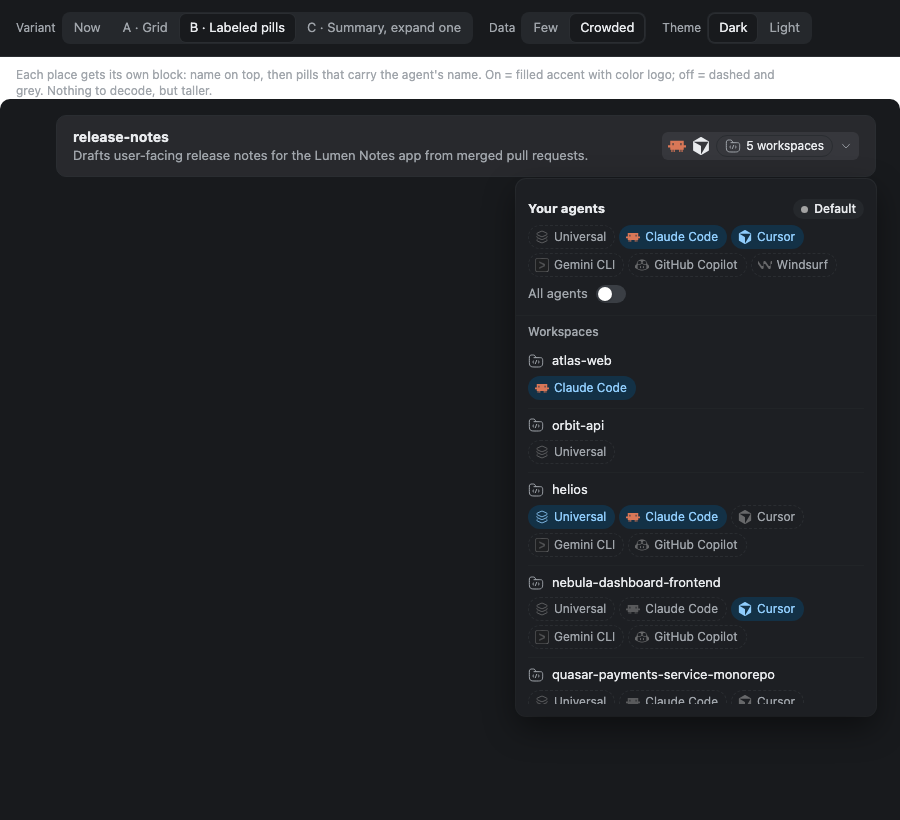
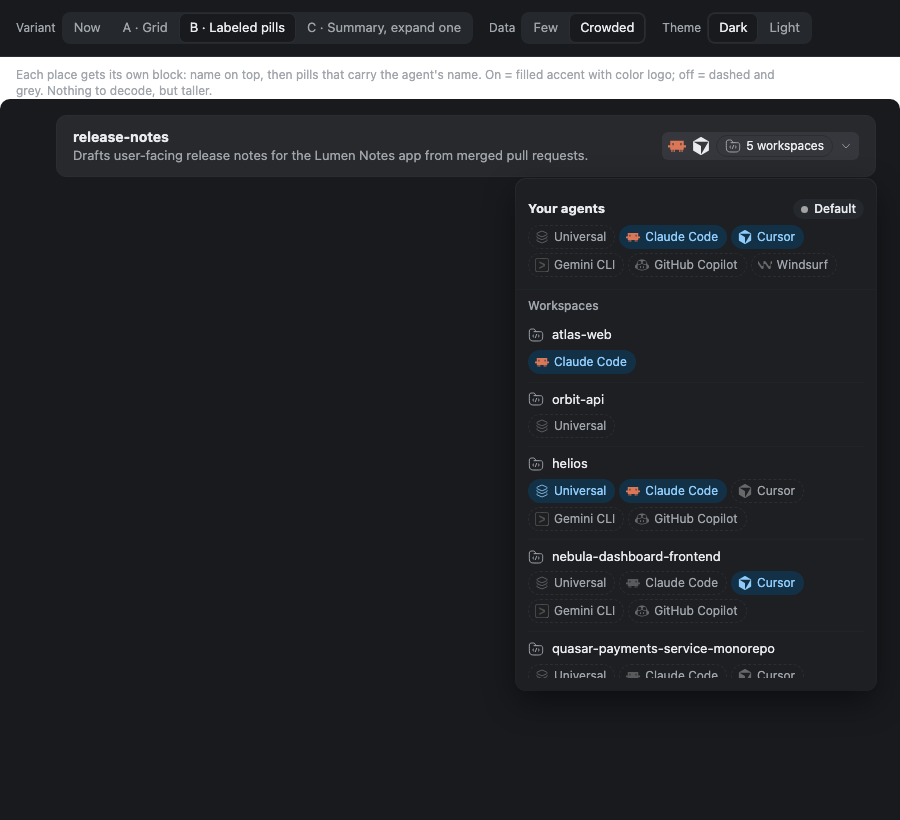
feat: the placement popover drops the All agents switch
Your agents' pills alone choose which agents the active preset holds a
skill for. A skill held for All agents shows every pill on, and turning
one off keeps the others as a fixed list; a Library row's "Active in
<preset>" menu item still holds a skill for all agents. The switch, its
spring and track constants, and SkillPlaces::switched go with it.

Changed region(s): [[0.5911, 0.3354, 0.9022, 0.8841]]

diff --git a/docs/design/place-popover/prototypes/popover.html b/docs/design/place-popover/prototypes/popover.html
@@ -283,7 +283,7 @@ function labeledB() {
   const tag = (on, k, click) => `<button class="tag ${on ? "on" : ""}" onclick="${click}">${logo(k)}${DIRS[k].name}</button>`;
   let h = `<div class="blk"><div class="top"><b style="flex:1">Your agents</b><span class="preset"><i></i>Default</span></div>
     <div class="tags">${yoursDirs().map(k => tag(M.on.has(k), k, `toggleYours('${k}')`)).join("")}</div>
-    <div style="margin-top:8px" class="muted">${allSwitch()}</div></div>`;
+    </div>`;
   h += `<div class="hr" style="margin-top:4px;margin-bottom:4px"></div><div class="sh">Workspaces</div><div class="scroll" style="max-height:360px">`;
   M.ws.forEach((w, i) => {
     h += `<div class="blk ${w.missing ? "missing" : ""}"><div class="top">${folder}<span class="trunc" style="flex:1">${w.name}</span>

diff --git a/docs/design/place-popover/source/popover.html.parts/3.html b/docs/design/place-popover/source/popover.html.parts/3.html
@@ -141,7 +141,7 @@ function labeledB() {
   const tag = (on, k, click) => `<button class="tag ${on ? "on" : ""}" onclick="${click}">${logo(k)}${DIRS[k].name}</button>`;
   let h = `<div class="blk"><div class="top"><b style="flex:1">Your agents</b><span class="preset"><i></i>Default</span></div>
     <div class="tags">${yoursDirs().map(k => tag(M.on.has(k), k, `toggleYours('${k}')`)).join("")}</div>
-    <div style="margin-top:8px" class="muted">${allSwitch()}</div></div>`;
+    </div>`;
   h += `<div class="hr" style="margin-top:4px;margin-bottom:4px"></div><div class="sh">Workspaces</div><div class="scroll" style="max-height:360px">`;
   M.ws.forEach((w, i) => {
     h += `<div class="blk ${w.missing ? "missing" : ""}"><div class="top">${folder}<span class="trunc" style="flex:1">${w.name}</span>

diff --git a/crates/ui/src/native_view/place_popover/sections.rs b/crates/ui/src/native_view/place_popover/sections.rs
@@ -1,11 +1,11 @@
-//! The popover's content: "Your agents", with the preset chip, a labeled pill per skill
-//! directory of your agents, and the All agents switch, then a block per workspace: its name, a
-//! note while its folder is missing or it uses no agent, and its pills, in a list that scrolls once it is tall. The switch is
-//! Kit's base switch and the pills the design system's toggle chips, on the popover's own focus
-//! handles. A control saves through the view showing the popover on a click, or on Enter or Space
-//! while it has focus, and does nothing, with no hover or hand cursor, while that view is
-//! blocked: a change runs or the progress strip is up. A missing workspace's pills are disabled:
-//! they never do anything and take no focus.
+//! The popover's content: "Your agents", with the preset chip and a labeled pill per skill
+//! directory of your agents, then a block per workspace: its name, a note while its folder is
+//! missing or it uses no agent, and its pills, in a list that scrolls once it is tall. The pills
+//! are the design system's toggle chips on the popover's own focus handles. A pill saves through
+//! the view showing the popover on a click, or on Enter or Space while it has focus, and does
+//! nothing, with no hover or hand cursor, while that view is blocked: a change runs or the
+//! progress strip is up. A missing workspace's pills are disabled: they never do anything and
+//! take no focus.
 
 use super::super::controls::reader_logo;
 use super::super::library_copies::Reader;
@@ -13,19 +13,16 @@ use super::super::library_places::preset_chip;
 use super::super::snapshot_query::{Entry, Held, SkillPlaces, WorkspacePlace};
 use super::super::workspace_icons::sized_icon;
 use super::{PlacePopover, place_block, place_head};
-use gpui_kit::base::{Switch, SwitchThumb, SwitchTrack, spring};
 use gpui_kit::component::{ActiveTheme, h_flex, v_flex};
 use gpui_kit::{
     AnyElement, App, ClickEvent, Context, FocusHandle, InteractiveElement, IntoElement,
-    ParentElement, Pixels, StatefulInteractiveElement, Styled, Window, div, prelude::FluentBuilder,
-    px, transparent_black,
+    ParentElement, StatefulInteractiveElement, Styled, Window, div, prelude::FluentBuilder, px,
 };
 use skillbinder_design::library::POPOVER_LIST_MAX_HEIGHT;
 use skillbinder_design::tokens::color::HAIRLINE;
-use skillbinder_design::tokens::{opacity, radius, space, text};
+use skillbinder_design::tokens::{opacity, space, text};
 use skillbinder_design::{
-    IconSize, Level, ScrollArea, SectionHeader, Surface, Text, TextTone, ToggleChip, focus_ring,
-    tooltip,
+    IconSize, ScrollArea, SectionHeader, Text, TextTone, ToggleChip, focus_ring, tooltip,
 };
 use skillbinder_proto::{Preset, SkillId, Targets, WorkspaceId, WorkspaceTargets};
 
@@ -43,13 +40,6 @@ pub(super) trait Placer: Sized + 'static {
     );
 }
 
-/// The All agents switch's track and thumb, and how far the thumb travels between off and on:
-/// GPUI Kit's own small switch, which this one draws with a raised thumb. The thumb travels the
-/// track less its 1 px border and 1 px padding on each side.
-const TRACK: (f32, f32) = (30., 18.);
-const THUMB: f32 = 14.;
-const TRAVEL: f32 = TRACK.0 - THUMB - 4.;
-
 /// What the popover's content shows.
 pub(super) struct Sections<'a> {
     pub popover: &'a PlacePopover,
@@ -63,32 +53,19 @@ pub(super) struct Sections<'a> {
 impl Sections<'_> {
     /// Your agents, then the workspaces under a hairline while any exists.
     pub(super) fn render<V: Placer>(&self, window: &mut Window, cx: &mut Context<V>) -> AnyElement {
-        // The All agents switch's thumb slides on Kit's spring, as Kit's own switch does. Each
-        // skill's thumb keeps its own, so a popover opened straight from another one's does not
-        // slide from where that one's thumb was.
-        let travel = if self.places.all_agents() {
-            px(TRAVEL)
-        } else {
-            px(0.)
-        };
-        let spring_move = cx.theme().motion_tokens().spring_move;
-        let key = ("place-all-agents-thumb", self.places.skill.0.clone());
-        let thumb = spring(key, travel, spring_move, window, cx);
         text::BODY_SM
             .apply(v_flex())
             .gap(px(space::MD))
-            .child(self.agents(thumb, window, cx))
+            .child(self.agents(window, cx))
             .when(!self.places.workspaces.is_empty(), |content| {
                 content.child(self.workspaces(window, cx))
             })
             .into_any_element()
     }
 
-    /// The preset chip, a pill per skill directory of your agents, and the All agents switch
-    /// with its thumb at `thumb`.
-    fn agents<V: Placer>(&self, thumb: Pixels, window: &Window, cx: &Context<V>) -> AnyElement {
+    /// The preset chip and a pill per skill directory of your agents.
+    fn agents<V: Placer>(&self, window: &Window, cx: &Context<V>) -> AnyElement {
         let places = self.places;
-        // Tab reaches the controls in the order their focus is asked for: the pills first.
         let pills: Vec<AnyElement> = places
             .agents
             .iter()
@@ -103,22 +80,6 @@ impl Sections<'_> {
                 pressable(pill, &focus, save, window, cx)
             })
             .collect();
-        let all = places.all_agents();
-        let focus = self.popover.key("place-all-agents", cx);
-        let save = self.save_agents(places.switched(!all));
-        let toggle = all_agents_switch(all, thumb, &focus, window, cx)
-            .when_some(save, |toggle, save| {
-                toggle.cursor_pointer().on_change(on_change(save, cx))
-            });
-        let switch = div()
-            .id("place-all-row")
-            .flex()
-            .items_center()
-            .gap(px(space::MD))
-            // The switch's accessible name reads the label.
-            .child("All agents")
-            .child(toggle)
-            .tooltip(tooltip("Includes agents added later"));
         let pills = if pills.is_empty() {
             vec![
                 Text::labeled("no-agents", "You have no agents")
@@ -132,11 +93,7 @@ impl Sections<'_> {
         let head = SectionHeader::new("agents-label", "Your agents")
             .min_h(px(space::CONTROL_SM))
             .action(preset_chip("place-preset", self.preset, cx));
-        v_flex()
-            .gap(px(space::SM))
-            .child(place_block(head, pills))
-            .child(switch)
-            .into_any_element()
+        place_block(head, pills).into_any_element()
     }
 
     /// Saving `targets` for your agents, unless the view is blocked.
@@ -325,47 +282,4 @@ fn on_change<V: Placer>(
 ) -> impl Fn(bool, &ClickEvent, &mut Window, &mut App) + 'static {
     let press = cx.listener(move |view, _: &ClickEvent, window, cx| press(view, window, cx));
     move |_, event, window, cx| press(event, window, cx)
-}
-
-/// The All agents switch: Kit's base switch on the popover's `focus` for it, which keeps that focus
-/// while it does nothing. Its 30 by 18 track takes the switch color, primary while `on`, and Kit's
-/// focus ring while a key gave it focus; its raised 14 px thumb sits `thumb` from the start.
-fn all_agents_switch(
-    on: bool,
-    thumb: Pixels,
-    focus: &FocusHandle,
-    window: &Window,
-    cx: &App,
-) -> Switch {
-    let theme = cx.theme();
-    let primary = theme.primary;
-    let track = SwitchTrack::new("place-all-agents-track")
-        .checked(on)
-        .flex()
-        .flex_none()
-        .items_center()
-        .w(px(TRACK.0))
-        .h(px(TRACK.1))
-        .rounded_full()
-        // A transparent 1 px border and 1 px of padding inset the thumb, so the ring's tint of the
-        // border shows on the off track too, as on Kit's own switch.
-        .border_1()
-        .border_color(transparent_black())
-        .p_px()
-        .bg(theme.switch)
-        .styles(|styles| styles.checked(|style| style.bg(primary)))
-        .child(
-            Surface::new(Level::Raised)
-                .radius(radius::FULL)
-                .fill(theme.switch_thumb)
-                .apply(SwitchThumb::new(on), theme)
-                .size(px(THUMB))
-                .left(thumb),
-        );
-    Switch::new("place-all-agents")
-        .checked(on)
-        .accessibility_label("All agents")
-        .track_focus(focus)
-        .flex_none()
-        .child(focus_ring(track, focus, window, cx))
 }

diff --git a/crates/ui/src/native_view/place_popover/tests.rs b/crates/ui/src/native_view/place_popover/tests.rs
@@ -16,12 +16,11 @@ use skillbinder_design::FOCUS_RING;
 use skillbinder_proto::{AppSnapshot, SkillId, Targets, WorkspaceId, WorkspaceTargets};
 use std::sync::Arc;
 
-/// The controls Tab reaches, in the order they are drawn: your agents' pills, the switch, then
-/// the pill of the workspace whose folder is there. The missing workspace's pill is not one.
-const CONTROLS: [&str; 4] = [
+/// The controls Tab reaches, in the order they are drawn: your agents' pills, then the pill of
+/// the workspace whose folder is there. The missing workspace's pill is not one.
+const CONTROLS: [&str; 3] = [
     "place-agent-claude",
     "place-agent-cursor",
-    "place-all-agents",
     "place-ws-web-.claude/skills",
 ];
 
@@ -281,7 +280,7 @@ impl Harness {
 }
 
 #[gpui_kit::test]
-fn tab_and_shift_tab_cycle_every_enabled_pill_and_the_switch(cx: &mut TestAppContext) {
+fn tab_and_shift_tab_cycle_every_enabled_pill(cx: &mut TestAppContext) {
     let harness = Harness::new(cx, false);
     harness.click(cx, "trigger");
     assert_eq!(harness.focused(cx), None, "the popover itself has focus");
@@ -292,9 +291,9 @@ fn tab_and_shift_tab_cycle_every_enabled_pill_and_the_switch(cx: &mut TestAppCon
         assert_eq!(harness.ringed(cx), Some(control));
     }
     harness.press(cx, &["shift-tab"]);
-    assert_eq!(harness.focused(cx), Some(CONTROLS[3]));
-    harness.press(cx, &["shift-tab"]);
     assert_eq!(harness.focused(cx), Some(CONTROLS[2]));
+    harness.press(cx, &["shift-tab"]);
+    assert_eq!(harness.focused(cx), Some(CONTROLS[1]));
 }
 
 #[gpui_kit::test]
@@ -324,7 +323,6 @@ fn enter_and_space_save_what_a_click_saves(cx: &mut TestAppContext) {
         [
             "agents Agents({})",
             r#"agents Agents({"claude", "cursor"})"#,
-            "agents AllAgents",
             r#"web Some(Dirs({".claude/skills"}))"#,
         ]
     );

diff --git a/crates/ui/src/native_view/place_popover.rs b/crates/ui/src/native_view/place_popover.rs
@@ -1,12 +1,11 @@
 //! The popover that changes where a library skill is on, from its Library row or tile or its
 //! page's header, whose surface a workspace page's agents menu shares. "Your agents" edits the
-//! active preset: a labeled pill per skill directory of your agents and an All agents switch.
-//! Each workspace's block edits that workspace, one pill per directory it uses, or, while it uses
-//! none, per directory your agents offer, under its name. Each change saves at once; the last
-//! pill off removes the skill from that place without asking. It stays open across changes and
-//! closes on a press outside, Escape, a scroll of the list, or leaving the page. The keyboard
-//! reaches every control, as [`focus`] describes. It is Kit's popover surface, placed by Kit's
-//! positioner from where its
+//! active preset: a labeled pill per skill directory of your agents. Each workspace's block edits
+//! that workspace, one pill per directory it uses, or, while it uses none, per directory your
+//! agents offer, under its name. Each change saves at once; the last pill off removes the skill
+//! from that place without asking. It stays open across changes and closes on a press outside,
+//! Escape, a scroll of the list, or leaving the page. The keyboard reaches every pill, as
+//! [`focus`] describes. It is Kit's popover surface, placed by Kit's positioner from where its
 //! trigger was last painted.
 
 mod focus;

diff --git a/crates/ui/src/native_view/snapshot_query.rs b/crates/ui/src/native_view/snapshot_query.rs
@@ -93,7 +93,8 @@ pub(crate) struct WorkspaceEntries<'a> {
 pub(crate) struct Places<'a> {
     pub agents: Vec<Entry>,
     pub workspaces: Vec<WorkspaceEntries<'a>>,
-    /// Every listed agent's id: the agents a fixed list keeps when All agents is switched off.
+    /// Every listed agent's id: the agents a fixed list keeps when a pill turns off from All
+    /// agents.
     every: Vec<String>,
 }
 
@@ -259,16 +260,6 @@ impl<'a> SkillPlaces<'a> {
     /// On right now: held for one of your agents, or by a workspace.
     pub(crate) fn is_active(&self) -> bool {
         self.agents.iter().any(|held| held.held) || self.workspaces.iter().any(|w| w.holds())
-    }
-
-    /// The active preset's targets after the All agents switch: all agents, or exactly the
-    /// agents listed now.
-    pub(super) fn switched(&self, on: bool) -> Targets {
-        if on {
-            Targets::AllAgents
-        } else {
-            Targets::Agents(self.every.iter().cloned().collect())
-        }
     }
 
     /// The active preset's targets after toggling `entry`. An empty list removes the skill from

diff --git a/crates/ui/src/native_view/snapshot_query/tests.rs b/crates/ui/src/native_view/snapshot_query/tests.rs
@@ -464,15 +464,10 @@ fn directories_resolving_to_one_folder_share_a_pill() {
 }
 
 #[test]
-fn the_switch_gives_all_agents_or_the_fixed_list_listed_now() {
+fn a_pill_off_from_all_agents_keeps_the_others_as_a_fixed_list() {
     let snapshot = library().build();
     let places = Places::new(&snapshot);
     let everywhere = places.of(skill(&snapshot, "e-all"), &preset_id("default"));
-    assert_eq!(
-        everywhere.switched(false),
-        Targets::Agents(set(&["amp", "claude-code", "codex", "cursor"]))
-    );
-    assert_eq!(everywhere.switched(true), Targets::AllAgents);
     let universal = everywhere.agents[0].entry;
     assert_eq!(
         everywhere.toggled(universal),

diff --git a/docs/features/native/library-rows.md b/docs/features/native/library-rows.md
@@ -37,14 +37,14 @@ An inactive skill's slug, tag, and description draw at half opacity; its glyphs 
 
 The popover is an overlay surface, the menu's: the popover fill, a hairline ring in the foreground color at 10%, a soft drop shadow, and 12-point corners, 360 points wide with 8 points of padding, the menus' padding. Its content follows the labeled-pills variant of [`docs/design/place-popover`](../../design/place-popover/README.md). Kit's positioner opens it 4 points below the area, lined up with its trailing edge in a list and its leading edge in a grid; when there is no room below it opens above the area, or above the whole tile in a grid, and it stays 8 points inside the window, overlapping the area only when it fits neither below nor above. It follows the area as the area was painted the frame before, so it shows from the frame after it opens, holding its focus unseen until then, and follows a moved area a frame late. Its accessible role is a dialog named "Where <slug> is on".
 
-- **Your agents.** The label "Your agents" and, at its trailing end, the preset chip: a dot in the active preset's color, muted without one, and its name, with the tooltip "Saved to <preset>". Then a pill per skill directory of your agents in Agents section order, wrapping onto further lines from the leading edge, and under them "All agents" with a 30 by 18 switch, Kit's base switch whose shadowed thumb slides on Kit's spring, tooltip "Includes agents added later". Agents that read one directory, such as Universal or an agent whose global directory links to another's, are one pill, whose tooltip lists the agents that read it. With none of your agents, the pills give way to "You have no agents".
+- **Your agents.** The label "Your agents" and, at its trailing end, the preset chip: a dot in the active preset's color, muted without one, and its name, with the tooltip "Saved to <preset>". Then a pill per skill directory of your agents in Agents section order, wrapping onto further lines from the leading edge. The popover has no All agents switch; a row's context menu holds a skill for all your agents (see [Library and organization](library-and-organization.md)). Agents that read one directory, such as Universal or an agent whose global directory links to another's, are one pill, whose tooltip lists the agents that read it. With none of your agents, the pills give way to "You have no agents".
 - **Workspaces**, under a hairline while any workspace exists: one block per workspace in sidebar order, divided by hairlines, in a list that scrolls under the scroll fades once it is 320 points tall. A block's head holds the workspace's glyph or image and name, which ends in `…` when it does not fit, and at its trailing edge, whole and muted, "No agents yet" while it uses no agent or "Folder missing"; otherwise its pills alone show where the skill is on. Under the head, its pills wrap from the leading edge, one per skill directory it uses, directories resolving to one folder sharing a pill; a workspace that uses no agent yet offers a pill for each of your agents' workspace skill directories. A workspace whose folder is missing draws its block at 40% opacity with the tooltip "The workspace folder is missing.", and its pills are disabled: they do nothing and show no hover.
 - Pills are the design system's toggle chips, 24 points high with round ends, holding the directory's logo and a label: the name of the agent whose logo it shows, then `+<N>` for the other agents that read the directory, such as "Claude Code +5" for a workspace's `.claude/skills`; Universal reads "Universal". Its accessible name names every agent, and its tooltip lists them while the label does not. Off: a dashed outline at 24% of the text color, the name muted, and the logo in grayscale at half opacity. On: the `accent-soft` fill, the name in its foreground, and the logo in its own colors. Hover adds the muted fill to an off pill.
-- The switch on holds the skill for All agents, which includes agents chosen later; off keeps exactly your agents now as a fixed list. A pill toggles its directory: from All agents, the others stay as a fixed list, and the last pill off removes the skill from the active preset without a dialog. A workspace pill toggles that directory for the workspace; the last one off removes the skill from the workspace. Choosing a pill of a workspace that uses no agent makes that directory its agent and turns the skill on there.
-- Each change saves at once and the popover stays open, showing it; while it is open its row stays listed even if it no longer matches the filters, which apply again once it closes. While another operation runs or the progress strip is up, the switch and the pills do nothing, and show no hover or hand cursor. An edited managed copy still asks through Skill copies once the operation ends, and the popover hides while that dialog is open.
+- A pill toggles its directory. A skill held for All agents, which includes agents chosen later, shows every pill on; turning one off keeps the others as a fixed list. Turning every pill on by hand keeps a fixed list too. The last pill off removes the skill from the active preset without a dialog. A workspace pill toggles that directory for the workspace; the last one off removes the skill from the workspace. Choosing a pill of a workspace that uses no agent makes that directory its agent and turns the skill on there.
+- Each change saves at once and the popover stays open, showing it; while it is open its row stays listed even if it no longer matches the filters, which apply again once it closes. While another operation runs or the progress strip is up, the pills do nothing, and show no hover or hand cursor. An edited managed copy still asks through Skill copies once the operation ends, and the popover hides while that dialog is open.
 - A press outside it, Escape, scrolling the list, or leaving the page closes it.
-- The keyboard reaches every control. Opening the popover focuses the popover itself, so no control shows a focus ring until Tab or Shift-Tab moves to one. They cycle through your agents' pills, the switch, and the workspaces' pills, except a missing workspace's, in the order they are drawn, wrapping at either end instead of leaving for the page. Enter or Space acts on the focused control as a click does, and does nothing while another operation runs or the progress strip is up. Only a control focused from the keyboard shows Kit's focus ring, around a pill or the switch's track: a 3-point band in the theme's ring color at half opacity around a border tinted in it. A click focuses a control without one. When the popover closes while it has focus and the last input was a key, as with Escape, focus goes back to the trigger, so the keyboard is on the trigger again. A close after pointer input, such as a press on the trigger or outside it, or a scroll, focuses the window as before; a press then focuses whatever it lands on, as any press does. Whenever the focused element leaves the window, as the popover does on leaving the page or when its skill leaves the library, the window takes focus, so its shortcuts keep working.
+- The keyboard reaches every control. Opening the popover focuses the popover itself, so no control shows a focus ring until Tab or Shift-Tab moves to one. They cycle through your agents' pills and the workspaces' pills, except a missing workspace's, in the order they are drawn, wrapping at either end instead of leaving for the page. Enter or Space acts on the focused control as a click does, and does nothing while another operation runs or the progress strip is up. Only a control focused from the keyboard shows Kit's focus ring around a pill: a 3-point band in the theme's ring color at half opacity around a border tinted in it. A click focuses a control without one. When the popover closes while it has focus and the last input was a key, as with Escape, focus goes back to the trigger, so the keyboard is on the trigger again. A close after pointer input, such as a press on the trigger or outside it, or a scroll, focuses the window as before; a press then focuses whatever it lands on, as any press does. Whenever the focused element leaves the window, as the popover does on leaving the page or when its skill leaves the library, the window takes focus, so its shortcuts keep working.
 
 ## Text runs
 
-The `+N` avatar, the popover's section labels and workspace names and notes, the segment counts, the Updates count, folder tags, and the workspace and preset chips' names and count are GPUI text with an id, so each is a label in the accessibility tree holding its text, and the `native-test` bridge reports its layout box and its text (`get_ui_tree`, `get_element_bounds`) under its id, or under the trailing ids of its path where the id is not unique in the window, such as `place-ws-<workspace>.name`. Text that an enclosing element's accessible name already reads is plain text, which is no label: a row's or tile's name, read by the row, All agents, read by its switch, and a pill's name, read by the pill. The segment labels, Clear filters and the other text buttons are Kit controls whose label is their accessible name. Assistive technology reads each text once. A line that may not fit, such as a skill's or a workspace's name, ends in `…`. Text takes a type level from the design system (`skillbinder_design::Text`), whose medium weight is 520, since GPUI draws a request for exactly 500 with the system font's Regular face.
+The `+N` avatar, the popover's section labels and workspace names and notes, the segment counts, the Updates count, folder tags, and the workspace and preset chips' names and count are GPUI text with an id, so each is a label in the accessibility tree holding its text, and the `native-test` bridge reports its layout box and its text (`get_ui_tree`, `get_element_bounds`) under its id, or under the trailing ids of its path where the id is not unique in the window, such as `place-ws-<workspace>.name`. Text that an enclosing element's accessible name already reads is plain text, which is no label: a row's or tile's name, read by the row, and a pill's name, read by the pill. The segment labels, Clear filters and the other text buttons are Kit controls whose label is their accessible name. Assistive technology reads each text once. A line that may not fit, such as a skill's or a workspace's name, ends in `…`. Text takes a type level from the design system (`skillbinder_design::Text`), whose medium weight is 520, since GPUI draws a request for exactly 500 with the system font's Regular face.

diff --git a/docs/native-gate/interaction-checklist.md b/docs/native-gate/interaction-checklist.md
@@ -8,7 +8,7 @@ Use disposable source directories, library data, and a local bare remote.
 3. Select a project directory through the native picker, register it, rename, reorder, and remove it, then verify direct agent skill discovery. Pick the home folder and confirm that only the projects in it are added, or that the pick is refused when it holds none.
 4. Scan, select candidates, acknowledge invalid metadata when applicable, review and apply an import. Navigate during work; retain the result until dismissed. Confirm original source bytes remain unchanged.
 5. Search Library, inspect a file, create, recolor, reorder, rename, clone, and delete a preset through its revision-checked preview, and confirm that the Default preset's only menu action is Clone, that it cannot be dragged or recolored, stays first, and keeps its name and glyph. Activate and deactivate skills in the active preset from a row's popover, a row's menu, and a skill page; confirm the All, Active, Inactive, and Updates filters narrow the list with the folder tab and search, their counts follow, Clear filters resets them, the choice survives a visit to Settings and not a relaunch, and a workspace's page has no filter row; confirm clicking a preset activates it without opening a page and that the active check follows it, that a switch slower than 300 ms shows the progress strip with a rising percentage while clicks, Escape, ⌘B, ⌘[ and ⌘] do nothing, that a switch between presets holding the same skills shows only the toast when no copy waits for the user, and that each switch ends with `Switched to <preset>`, and confirm a new empty preset shows the "No skills active in <name>" notice in Library. Rename a preset to a duplicate and confirm the row reverts to the stored name with an error toast. Create and clone presets and confirm their rows appear before the save completes; a refused creation removes the row with an error toast. Confirm that importing a different skill with a slug the library holds is refused.
-6. Start the native test build with `--home` set to a disposable fixture home holding `.claude/skills` and `.agents/skills`. Open an inactive skill's dashed `+`, confirm the popover names the active preset, turn All agents on, and confirm its copy appears in both directories, the row's stack shows Universal and Claude Code, and both agent pages list it; turn All agents off and confirm both copies stay, turn Claude Code's pill off and confirm only `~/.claude/skills/<slug>` goes, then turn the last pill off and confirm the copy disappears without a dialog, other skill folders stay, and the row dims. Turn a workspace's pill on and confirm the copy appears there and the row gains its chip; a workspace using no agent reads `No agents yet`, and a missing one's line does nothing. Confirm the popover stays open across changes, closes on Escape and a press outside, and that Enter on a row still opens the skill page. With Tab focus the trigger and press Enter: no control is outlined until Tab, Tab and Shift-Tab cycle the switch and pills with the outline, Space and Enter toggle them, and Escape returns focus to the trigger. Close it with a second click on `+`, press cmd-B twice, and confirm that row's `+` stays hidden. Reach Library from another page, open a popover, Tab to a pill, press cmd-[, and confirm cmd-] still returns to Library. Switch to a preset holding other skills and confirm the files swap, then open the delete confirmation for the active preset, confirm it states what Default adds and removes, delete it, confirm the strip takes over from the confirmation and ends with `Deleted <preset> · Switched to Default`, and confirm the files match Default. Edit a managed copy and switch away: the strip ends with `Done · 1 needs attention`, Review opens the review list with Remove and Keep, and Close leaves no dialog open. Put a different copy of a library skill's slug in the fixture, activate the skill, and confirm Skill copies opens with Replace and Skip while the copy stays untouched until answered. Edit a managed copy, deactivate its skill, and confirm Remove and Keep. Make a fixture directory read-only, activate a skill, and confirm the warning glyph, its tooltip, and the skill page's Review note, then make it writable and confirm Retry applies the copy. Quit during a long switch, with ⌘Q and by killing the process, and confirm that every copy in place is complete, that no `.skillbinder-` staging directory remains after relaunch, and that the next launch finishes the switch.
+6. Start the native test build with `--home` set to a disposable fixture home holding `.claude/skills` and `.agents/skills`. Open an inactive skill's dashed `+`, confirm the popover names the active preset, turn the Universal and Claude Code pills on, and confirm its copy appears in both directories, the row's stack shows Universal and Claude Code, and both agent pages list it; turn Claude Code's pill off and confirm only `~/.claude/skills/<slug>` goes, then turn the last pill off and confirm the copy disappears without a dialog, other skill folders stay, and the row dims. Turn a workspace's pill on and confirm the copy appears there and the row gains its chip; a workspace using no agent reads `No agents yet`, and a missing one's line does nothing. Confirm the popover stays open across changes, closes on Escape and a press outside, and that Enter on a row still opens the skill page. With Tab focus the trigger and press Enter: no control is outlined until Tab, Tab and Shift-Tab cycle the pills with the outline, Space and Enter toggle them, and Escape returns focus to the trigger. Close it with a second click on `+`, press cmd-B twice, and confirm that row's `+` stays hidden. Reach Library from another page, open a popover, Tab to a pill, press cmd-[, and confirm cmd-] still returns to Library. Switch to a preset holding other skills and confirm the files swap, then open the delete confirmation for the active preset, confirm it states what Default adds and removes, delete it, confirm the strip takes over from the confirmation and ends with `Deleted <preset> · Switched to Default`, and confirm the files match Default. Edit a managed copy and switch away: the strip ends with `Done · 1 needs attention`, Review opens the review list with Remove and Keep, and Close leaves no dialog open. Put a different copy of a library skill's slug in the fixture, activate the skill, and confirm Skill copies opens with Replace and Skip while the copy stays untouched until answered. Edit a managed copy, deactivate its skill, and confirm Remove and Keep. Make a fixture directory read-only, activate a skill, and confirm the warning glyph, its tooltip, and the skill page's Review note, then make it writable and confirm Retry applies the copy. Quit during a long switch, with ⌘Q and by killing the process, and confirm that every copy in place is complete, that no `.skillbinder-` staging directory remains after relaunch, and that the next launch finishes the switch.
 7. With the same fixture home, add a project folder holding a library skill's identical copy in `.claude/skills` and a different one in `.agents/skills`. Confirm the add writes nothing, Skill copies asks about the different copy, and the workspace's page lists only the skills it holds, its sidebar count matches, and its header shows the glyph, name, `~` path, and Add skill. Open a row's agents menu and confirm it lists only the project's own directories; untick one folder and confirm the menu stays open, the check and label follow, and only that directory loses its copy; untick All agents and confirm the label changes and no file changes. Untick the last folder and confirm the menu closes and asks "Remove <skill> from <workspace>?": Cancel keeps everything, Remove drops the row and copies and shows "Removed <skill>", and Undo brings back the row, the copies, and the exact previous choice. Delete a row and confirm the same, and that a second Delete replaces the toast. Edit a copy's `SKILL.md`, Delete, and confirm "You changed this skill here" asks Keep or Remove with no toast. Delete the last skill and confirm the empty state and its Add skill; from Add skill, pick three skills, untick every pill on one and confirm Add reads "Pick an agent for <slug>", tick the "not used here yet" pill of a detected agent's directory and confirm Add shows `Adding…`, then "Added 3 skills", creates that directory, adds it to the workspace, and writes the copies only where ticked; confirm skills already there are ticked and disabled with "Already here", × deselects, and Esc or a click outside behave as the picker documents; on an agent's page confirm the preset chip reads "Saved to <preset>", the cards have no pills, and Add writes the copy into that agent's global skill directory; activate a skill held for your agents and confirm the robot mark's `Also in your agents`. Add an empty project, confirm "No agents here yet", open Add skill, and confirm no pill starts ticked and ticking one makes that directory the workspace's agent. Move the project folder away and confirm the missing note shows and Add skill, the agents buttons, and Delete do nothing while rows still open the skill's page. Remove the workspace and confirm the copies stay.
 8. Connect a disposable remote. Confirm Refresh does not commit, Push explicitly commits only `skills/`, preset and folder changes and managed copies never show as changes, Pull is fast-forward only, and Disconnect retains local files.
 9. Type, select, copy/paste, and compose through an IME. Check Tab/Shift+Tab, dialog focus, Escape dismissal, pending dismissal locks, directory-picker cancellation, appearance, and reduced motion.

diff --git a/docs/features/native/library-and-organization.md b/docs/features/native/library-and-organization.md
@@ -2,7 +2,7 @@
 
 Library supports text search, preset creation, rename, and clone, and revision-checked deletion previews. A preset is a named configuration of library skills for your agents, holding each skill for all your agents or for specific ones; a skill can be in any number of presets. Presets are activated from the sidebar and have no page of their own. Deleting a preset leaves its skills in the library and in their other presets; deleting the active preset activates the Default preset in the same change, and its confirmation states the skills that adds and removes for your agents (see [Activation](activation.md)). Every library starts with the Default preset, which always comes first and which the app never deletes, renames, colors, gives another icon, or moves. Presets keep a user-defined order, an optional color, one of a fixed eight-color palette or any custom color, and an icon from a curated set of 40. New presets are appended after the Default preset, are empty, and have no color and the layers icon. Creating a preset adds its row at once; a refused creation removes it and shows an error toast. Cloning likewise adds the copy row at once and removes it with an error toast if the clone is refused. Reordering requires every current preset exactly once, keeps the Default preset first so no other preset can move above it, and renumbers positions densely after each organization change. Names are trimmed and unique under NFKC plus full Unicode case folding; a duplicate is refused with "Preset names must be unique." Presets, their memberships with each skill's agents, the active preset, and library folders are machine-local: they live in the database, never sync, and never make Sync report changes.
 
-One preset is active at a time, and its skills are what SkillBinder writes into your agents' global skill directories as managed copies (see [Activation](activation.md)). The app starts with the Default preset active, and clicking a preset activates it in place without opening a page: its row shows active at once while the engine saves the choice and writes and removes copies to match it, and the app is blocked with progress until they are written ([Activation progress](activation-progress.md)). The engine keeps the choice, so it persists across restarts, and a preset that no longer exists reads as the Default preset. Library keeps listing every library skill, and a preset never filters it. The sidebar gives the active preset a fainter fill than the route selection: its color at low opacity, or a muted selection fill when it has no color. Each preset row ends with the number of skills it holds, and the active one shows a check after its name in the same color as its icon, at a heavier stroke than the section glyphs. A library skill joins or leaves the active preset from its row's popover or the same popover from its page header (see [Library rows](library-rows.md)), whose All agents switch and per-directory pills choose which of your agents the active preset holds it for, or from its row's context menu, whose "Active in <name>" row is checked while the skill belongs to it and holds it for all your agents. Each change saves immediately like every organization change, and the copies follow it. While the active preset holds no skills, Library shows the notice "No skills active in <name>". A workspace's page lists only the skills the workspace holds, with controls that edit the workspace (see [Workspace activation](workspace-activation.md)).
+One preset is active at a time, and its skills are what SkillBinder writes into your agents' global skill directories as managed copies (see [Activation](activation.md)). The app starts with the Default preset active, and clicking a preset activates it in place without opening a page: its row shows active at once while the engine saves the choice and writes and removes copies to match it, and the app is blocked with progress until they are written ([Activation progress](activation-progress.md)). The engine keeps the choice, so it persists across restarts, and a preset that no longer exists reads as the Default preset. Library keeps listing every library skill, and a preset never filters it. The sidebar gives the active preset a fainter fill than the route selection: its color at low opacity, or a muted selection fill when it has no color. Each preset row ends with the number of skills it holds, and the active one shows a check after its name in the same color as its icon, at a heavier stroke than the section glyphs. A library skill joins or leaves the active preset from its row's popover or the same popover from its page header (see [Library rows](library-rows.md)), whose per-directory pills choose which of your agents the active preset holds it for, or from its row's context menu, whose "Active in <name>" row is checked while the skill belongs to it and holds it for all your agents. Each change saves immediately like every organization change, and the copies follow it. While the active preset holds no skills, Library shows the notice "No skills active in <name>". A workspace's page lists only the skills the workspace holds, with controls that edit the workspace (see [Workspace activation](workspace-activation.md)).
 
 Rename edits a preset's name inline; pressing Enter shows the new name at once while the engine saves it. A refused rename restores the stored name and shows an error toast with the reason. Right-clicking any preset, including Default, opens Clone, which copies the preset's color, icon, name prefixed with "Copy of", and skills with their agents into a new editable preset directly after it. A taken copy name gains a numeric suffix, such as "Copy of Review 2". Default's menu holds only Clone; the app still never renames it, recolors it, re-icons it, moves it, or removes it.
 

diff --git a/docs/design/place-popover/README.md b/docs/design/place-popover/README.md
@@ -17,10 +17,10 @@ The variant bar still switches to "Now" (the popover before), the rejected A "Gr
 ## Decisions
 
 1. **Labeled pills.** Each pill holds its directory's logo and label, as the design system's `ToggleChip`, dashed. The label is the name of the agent whose logo it shows, then `+<N>` for the other agents that read the directory: in a workspace, `.claude/skills` is read by several agents and reads "Claude Code +5" (found in the native check; the prototype shows one agent per pill). On: the `accent-soft` fill, the label in its foreground, and the logo in its own colors. Off: the dashed outline, the label muted, and the logo grayscale at half opacity. A pill's tooltip lists the agents that read its directory, when the label does not name them all.
-2. **One block per place.** "Your agents" with the preset chip, its pills, then the All agents switch under them. Each workspace: its glyph and name, cut short with `…`, and at the trailing edge any status, then its pills wrapping across the popover's full width from the leading edge. Hairlines divide the workspaces.
+2. **One block per place.** "Your agents" with the preset chip and its pills; the user dropped the All agents switch (2026-11-26), and a row's "Active in <preset>" menu item still holds a skill for all agents. Each workspace: its glyph and name, cut short with `…`, and at the trailing edge any status, then its pills wrapping across the popover's full width from the leading edge. Hairlines divide the workspaces.
 3. **Status.** A workspace's head adds only what its pills do not show: "No agents yet" while it uses no agent, or "Folder missing". A count ("2 of 5 on") and "Off" repeated the pills, so the user dropped them (2026-11-26).
 4. **Size.** The popover is 360 points wide. The workspaces list scrolls once it is 320 points tall, under the scroll fades, with the Your agents block above it always in view.
-5. **Tab order** follows the drawing order: your agents' pills, the switch, then each workspace's pills.
+5. **Tab order** follows the drawing order: your agents' pills, then each workspace's pills.
 
 ## Sources
 

diff --git a/docs/features/native/command-line.md b/docs/features/native/command-line.md
@@ -47,7 +47,7 @@ With `--json` it prints exactly one document on stdout: `{"ok": true, "result": 
 | --- | --- |
 | `skills [--active \| --inactive \| --updates] [--folder F]` | Library's list under one filter and folder tab, by name: each skill, its marks (`update`, `drifted`, `new`), the agents the active preset holds it for, and the workspaces holding it, or `off` |
 | `skill <slug>` | The skill's page: description, source, folder, presets, where it is on, and its copies |
-| `enable <slug>… [--agent A]… [--replace]` | With no agent, holds the skills in the active preset for all your agents, as the placement popover's All agents switch does; with agents, adds them to what the preset holds |
+| `enable <slug>… [--agent A]… [--replace]` | With no agent, holds the skills in the active preset for all your agents, as a Library row's "Active in <preset>" menu item does; with agents, adds them to what the preset holds |
 | `disable <slug>… [--agent A]…` | With no agent, takes the skills out of the active preset; with agents, only for them, so a skill held for all agents stays held for your other ones |
 | `presets` | The presets, `*` marking the active one, with their skill counts |
 | `preset create <name>`, `rename <name> <new>`, `clone <name>` | The sidebar's presets |
